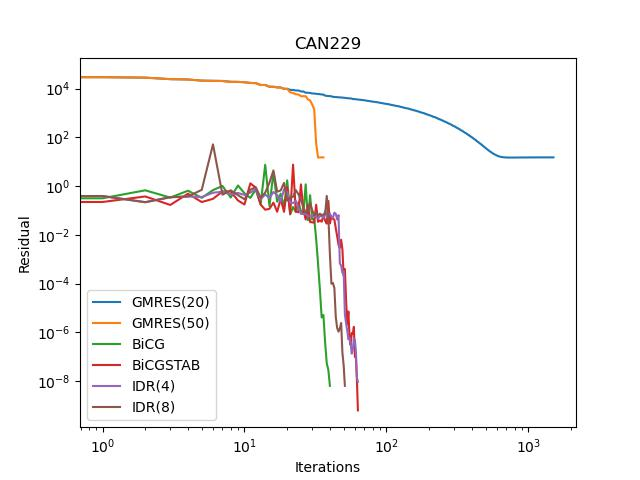
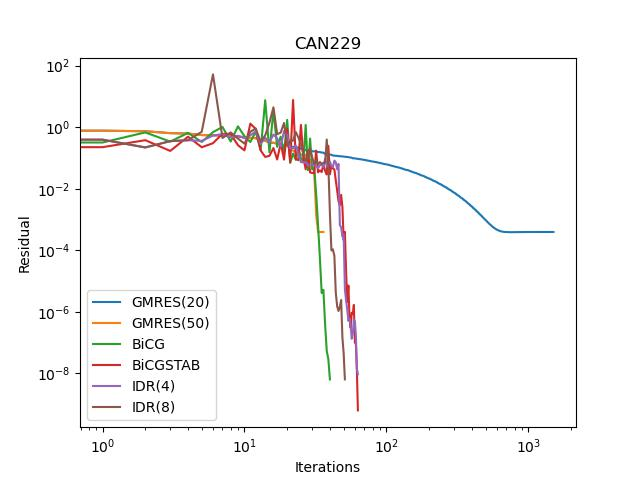
update figures convergence

diff --git a/main.py b/main.py
@@ -50,6 +50,9 @@ def plot_residuals(file_name, residual_dict):
     for method in residual_dict:
         # print(method)
         reses = residual_dict[method]
+        if method in ['GMRES(20)', 'GMRES(50)']:
+            print(reses[0])
+            reses = reses / reses[0]
         length = len(reses)
         # plt.plot(list(range(length)), reses, label=method)
         
@@ -93,9 +96,10 @@ if __name__ == '__main__':
     
     msg = "Method {:8} Time = {:6.3f} Matvec = {:d} Residual = {:g}"
     msg = "{:8} & {:6.3f} & {:d} & {:g} \\\\"
-    # x0 = np.zeros([n, 1])
-    x0 = np.random.randint(low=0, high=1, size=(n,1))
+    x0 = np.zeros([n, 1])
+    # x0 = np.random.randint(low=0, high=1, size=(n,1))
     bnrm2 = np.linalg.norm(b)
+    res0 = np.linalg.norm(b - A.dot(x0))
     residual_dict = {}
     
     def residual(x):
@@ -106,7 +110,9 @@ if __name__ == '__main__':
     def callback_(x):
         global matvec, residuals
         matvec = matvec + 1
-        res = residual(x)
+        # res = residual(x)
+        res = np.linalg.norm(b - A.dot(x)) / bnrm2 
+        # res = np.linalg.norm(b - A.dot(x))/bnrm2
         residuals.append(res)
 
     # CG
@@ -131,7 +137,9 @@ if __name__ == '__main__':
     elapsed_time = time.time() - t
     method_name = get_method_name(args)
     print(msg.format(method_name, elapsed_time, matvec, residual(xb2)))
-    residual_dict[method_name] = residuals
+    # print(residuals[-1])
+    # residuals = [res / np.log(res)  for res in residuals]
+    residual_dict[method_name] = residuals 
     
     # GMRES
     matvec = 0
@@ -139,10 +147,15 @@ if __name__ == '__main__':
     args.method = 'gmres'
     args.restart = 50
     t = time.time()
-    xb2, info = gmres(A, b, x0=x0, tol=args.tol, restart=args.restart, maxiter=args.maxit, callback=callback_)
+    x, info = gmres(A, b, x0=x0, tol=args.tol, restart=args.restart, maxiter=args.maxit, callback=callback_)
     elapsed_time = time.time() - t
     method_name = get_method_name(args)
-    print(msg.format(method_name, elapsed_time, matvec, residual(xb2)))
+    print(msg.format(method_name, elapsed_time, matvec, residual(x)))
+    # residual_dict[method_name] = residuals / residuals[-1] * residual(x)
+    # residuals = [res / np.log(res)  for res in residuals]
+    # for i in range(len(residuals)):
+    #     residuals[i] = residuals[i] / residuals[0]
+    # print(residuals[0])
     residual_dict[method_name] = residuals
     
     
